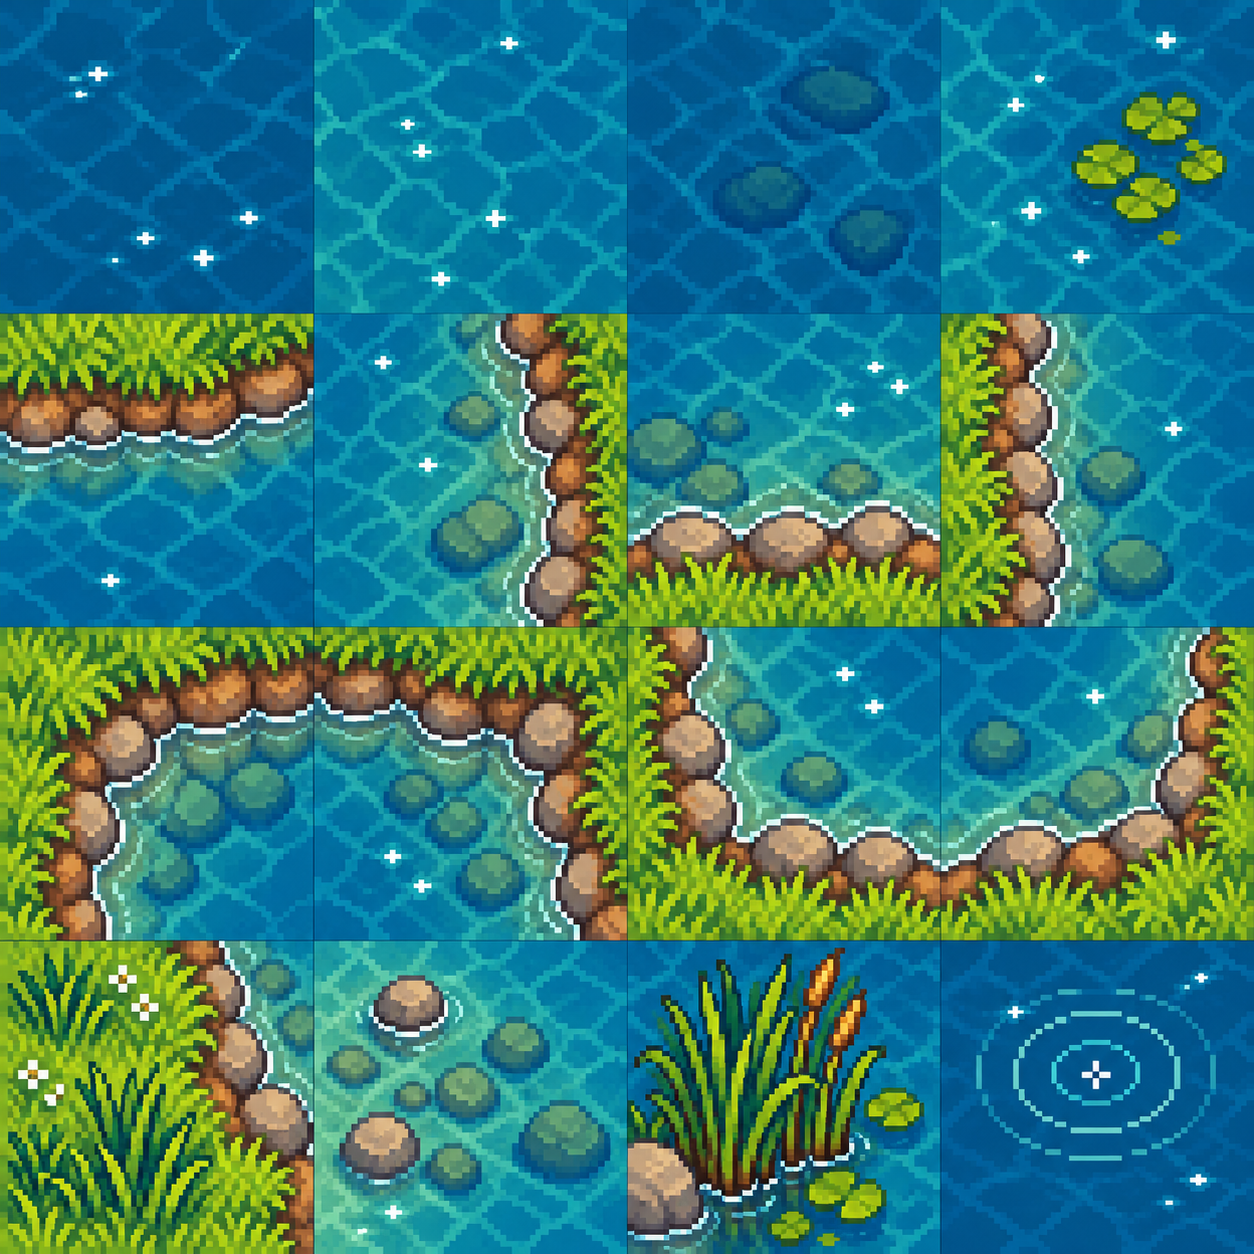
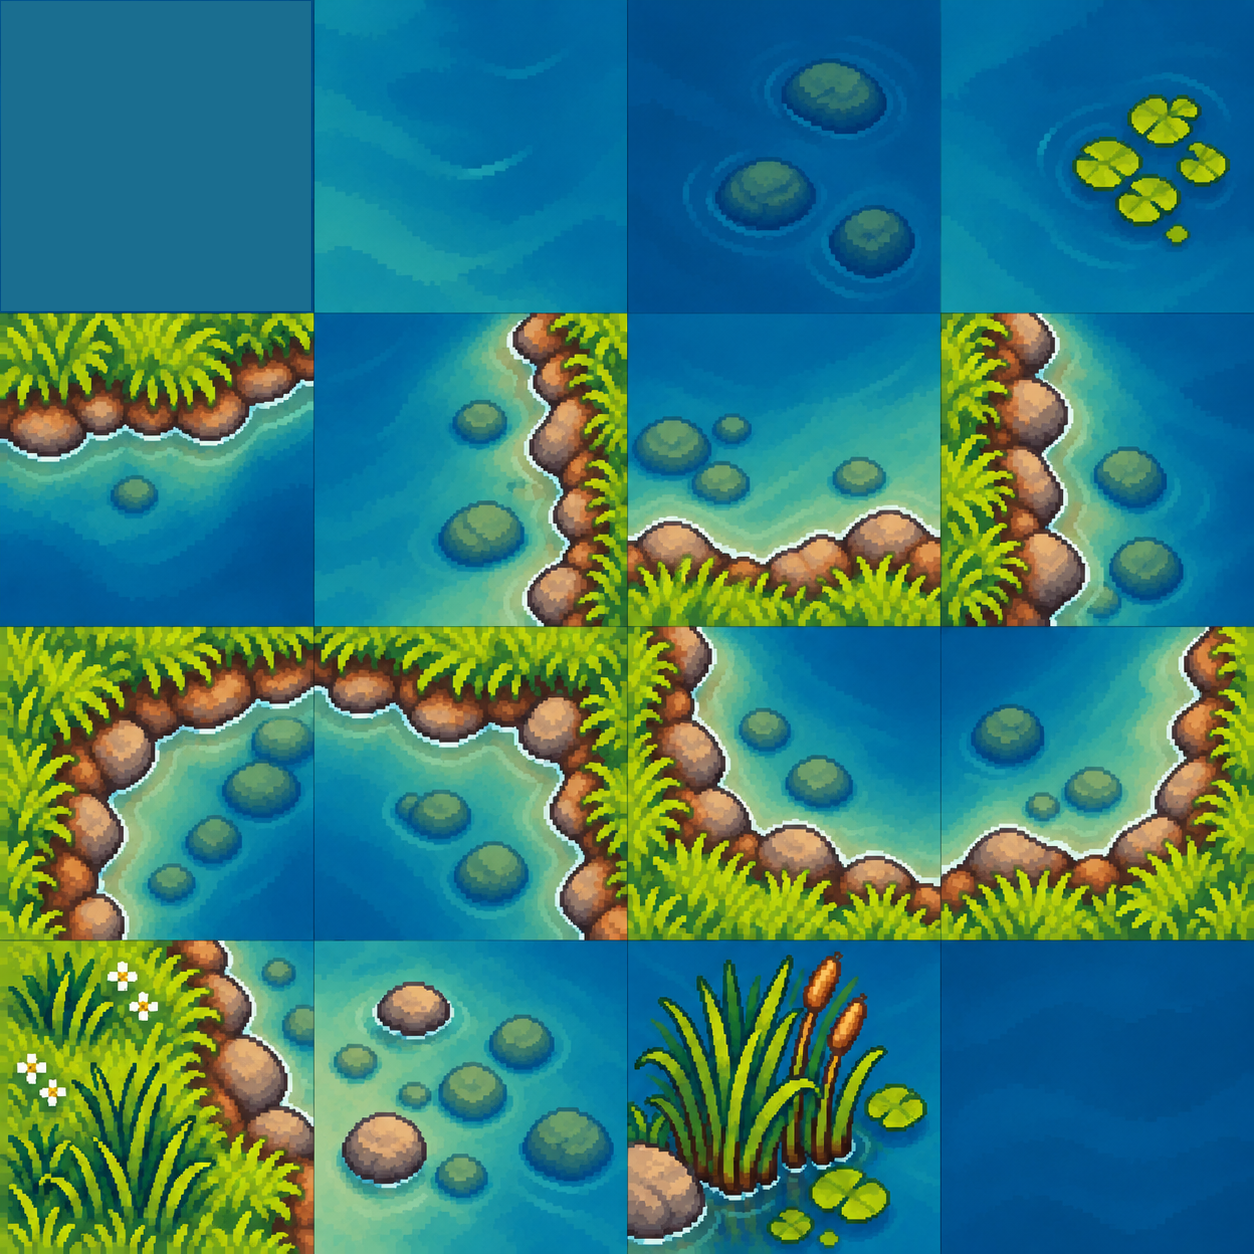
art: refine lake shoreline candidate tiles

diff --git a/docs/art/candidates/pixel-movement/p6-lake-shore/README.md b/docs/art/candidates/pixel-movement/p6-lake-shore/README.md
@@ -5,19 +5,19 @@
 ## 候選檔案
 
[5 lines of base64/hex data omitted]
 - `manifest.json`：逐格 frame、尺寸、縮放契約、來源和核准狀態。
 
 ## DEV 場景檢視證據
 
[4 lines of base64/hex data omitted]
 - 兩張圖以隔離 Playwright context 載入 lake 測試存檔，使用 `renderProfile=pixel32&gate1Runtime=pixel32-map-animation&gate1LakeVisual=p6-061`。這是 DEV 預覽證據，不是實機效能數據或正式素材核准。
 
 ## 產生與像素契約
 
-來源圖由 OpenAI imagegen 依使用者接受的概念方向生成；模型與授權細節未提供。Atlas 從 4×4 格線內各取 310×310 區域，避開生成圖格線，再以 FFmpeg 9.0.2 nearest-neighbor 縮至 32×32，依 manifest 列序拼成 128×128。使用下列契約：原生 32 px、world tile 64 units、精確 2× nearest-neighbor。來源圖和 atlas 都保留在候選目錄供檢視與 hash 驗證；這是由生成圖裁切縮小的第一輪候選，尚未逐像素手工潤飾或完成無縫性驗收。
+來源圖由 OpenAI 內建 imagegen 依使用者接受的概念方向製作，並在本輪針對水面紋理及岸線做定向修訂；模型與授權細節未提供。Atlas 從 4×4 格線內各取 310×310 區域（格子起點為 1、315、628、942），避開生成圖格線，再以 FFmpeg nearest-neighbor 縮至 32×32，依 manifest 列序拼成 128×128。使用下列契約：原生 32 px、world tile 64 units、精確 2× nearest-neighbor。來源圖和 atlas 都保留在候選目錄供檢視與 hash 驗證；`water-open` 底格在裁切後以 FFmpeg 填為純色 `#1A6E90`，避免大量重複鋪設時出現規律波紋；其他水面與岸線格保留低頻變化和地物。候選仍未逐像素手工潤飾或完成所有拼接組合的無縫性驗收。
 
 Frame 順序依 manifest 的 `frames` 列序：
 
@@ -31,5 +31,5 @@ Frame 順序依 manifest 的 `frames` 列序：
 - 遊戲內預覽只在 DEV、pixel32 runtime 與明確的湖岸候選 query 同時啟用時讀取候選圖。
 - 候選只繪製 `lake.json` 現有 grass/path/water 鄰接；地圖 schema、碰撞、移動、釣魚判定、存檔與正式素材 manifest 維持原狀。
 - 漣漪 frame 為靜態視覺樣本，不代表可釣位置或新釣魚規則。
-- 圖片縮小後有高頻細節，單格遠看可能略繁；需以實際 DEV 畫面人工審視其 2×比例、接縫、顏色與岸線可讀性。
+- 本版水面基底刻意降低波紋頻率與亮點密度；岸線格仍需以實際 DEV 畫面檢查重複節奏、接縫、顏色與邊緣可讀性。
 - 使用者必須檢視 `atlas.png` 與上列 atlas SHA-256，正式素材整合才可進行。接受視覺方向不等於核准確切素材。
